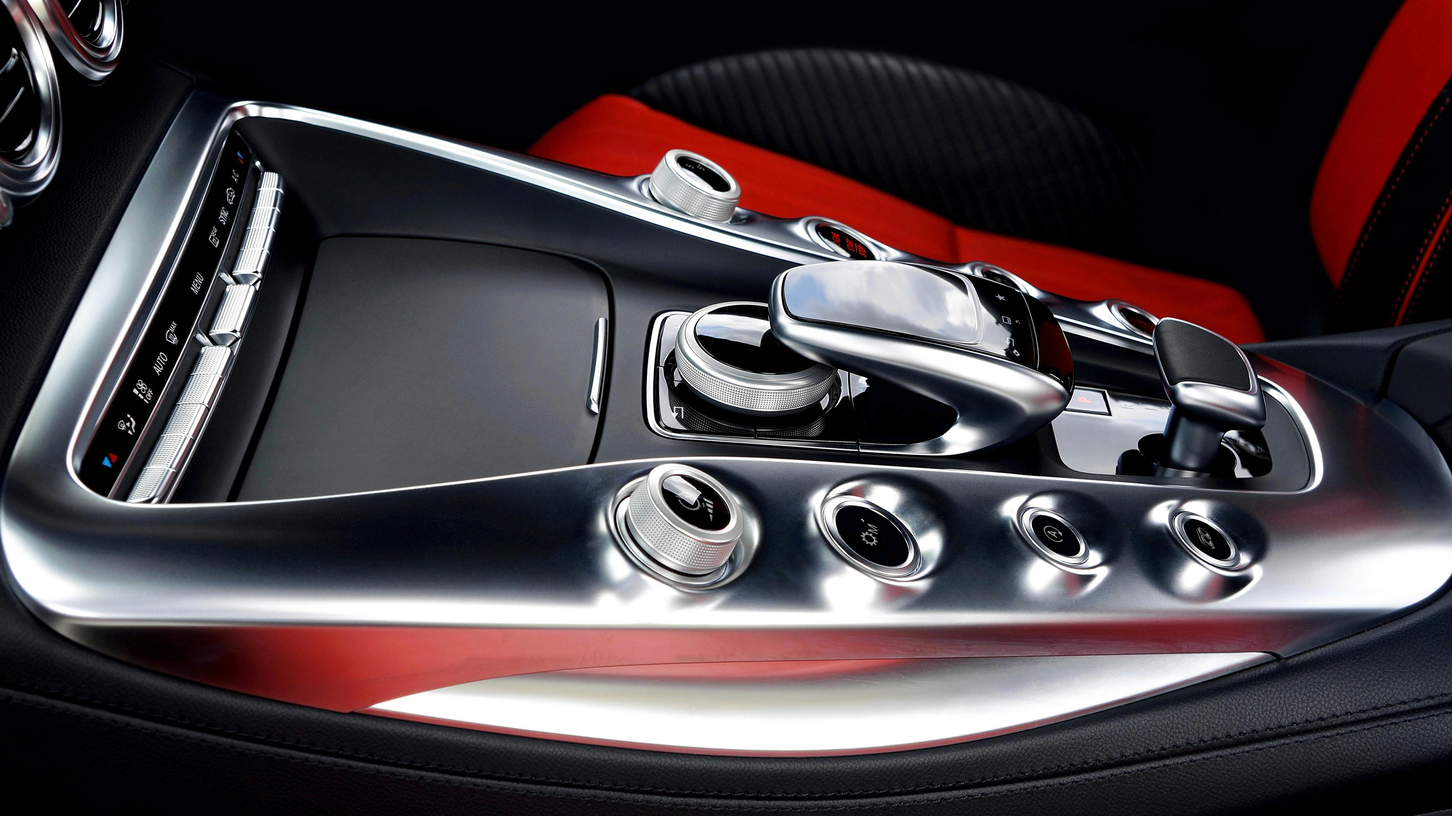
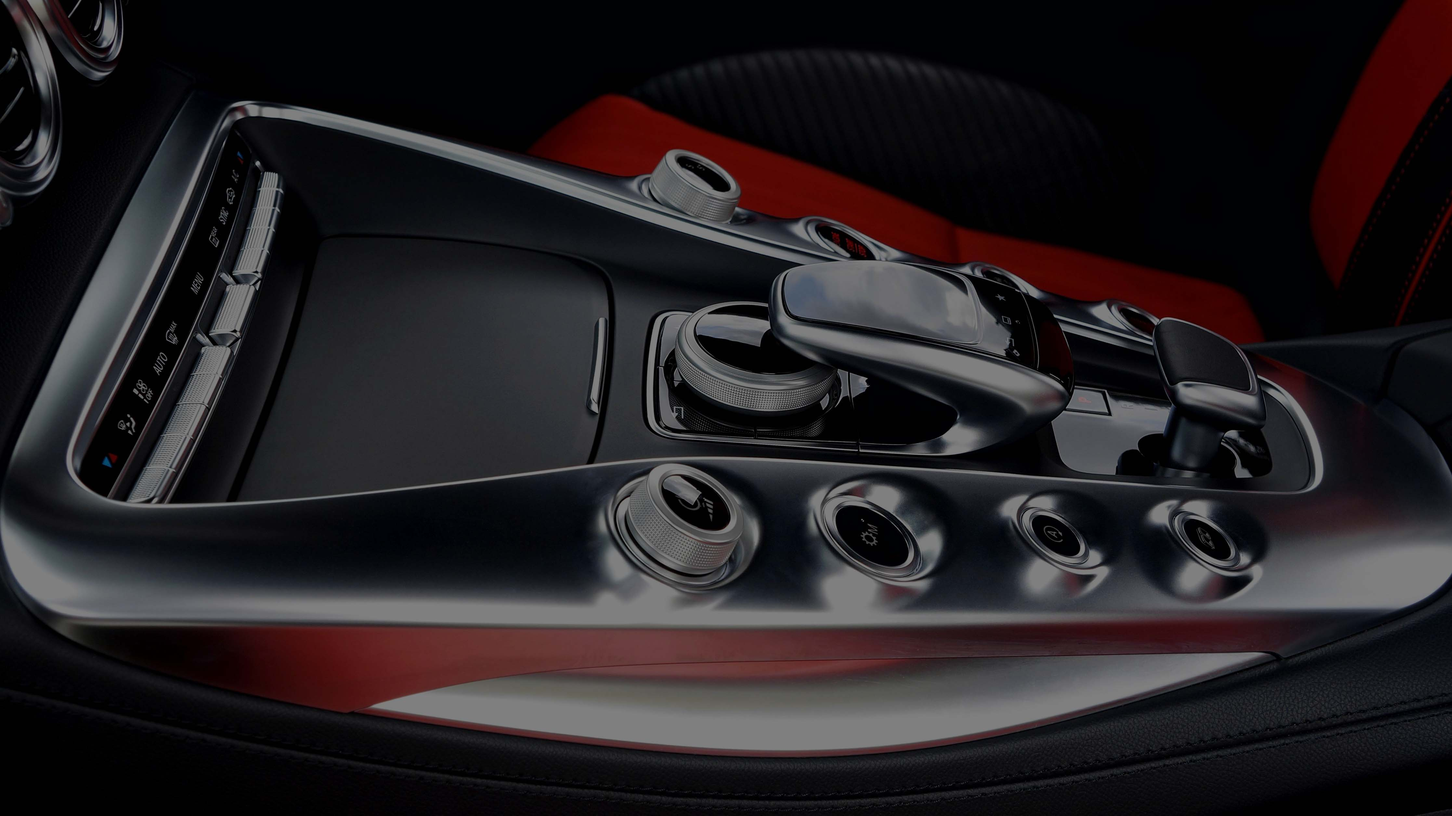
minimal change bg service

diff --git a/style/style-services.css b/style/style-services.css
@@ -1,1 +1,1 @@
-header{background-color:rgb(0,0,0);padding:15px;position:fixed;top:0;width:100%;z-index:100}header .navigation{max-width:1300px;width:100%;min-height:30px;margin:auto;display:-webkit-box;display:-ms-flexbox;display:flex;-webkit-box-pack:justify;-ms-flex-pack:justify;justify-content:space-between;-webkit-box-align:center;-ms-flex-align:center;align-items:center;-webkit-box-orient:horizontal;-webkit-box-direction:normal;-ms-flex-direction:row;flex-direction:row;-ms-flex-wrap:nowrap;flex-wrap:nowrap}header .navigation .logo{font-size:25px;color:#FFFFFF;font-family:"Inter Tight",sans-serif;font-weight:300;letter-spacing:3px}header .navigation .logo span{color:#FFD700;font-style:italic}header .navigation .icon{display:none;font-size:30px;color:#FFD700;margin-top:20px;cursor:pointer}header .navigation .list-container{display:-webkit-box;display:-ms-flexbox;display:flex;-webkit-box-align:center;-ms-flex-align:center;align-items:center}header .navigation .list-container li a{color:#FFFFFF;padding:18px 50px;font-family:"Inter Tight",sans-serif;font-weight:300;letter-spacing:2px;-webkit-transition:all 0.2s ease,color 0.3s ease;transition:all 0.2s ease,color 0.3s ease}header .navigation .list-container li a:hover{color:#FFD700;border-bottom:3px solid #FFD700}header .navigation .list-container li a.active{background-color:rgb(26,21,21);color:#FFD700;border-bottom:3px solid #FFD700}header .navigation .dropdown{position:relative}header .navigation .dropdown .dropbtn{cursor:pointer;padding:18px 50px;color:#FFFFFF;font-family:"Inter Tight",sans-serif}header .navigation .dropdown .dropbtn:hover{color:#FFD700}header .navigation .dropdown .dropdown-content,header .navigation .dropdown .dropdown-content-service{display:none;position:absolute;background-color:black;width:180px;top:38px;left:0px;-webkit-box-shadow:0px 8px 16px rgba(0,0,0,0.2);box-shadow:0px 8px 16px rgba(0,0,0,0.2);z-index:-1;border-bottom-left-radius:4px;border-bottom-right-radius:4px;-webkit-box-orient:vertical;-webkit-box-direction:normal;-ms-flex-direction:column;flex-direction:column}header .navigation .dropdown .dropdown-content li .dropbtn,header .navigation .dropdown .dropdown-content-service li .dropbtn{padding:10px;font-size:14px;color:#FFFFFF;-webkit-transition:color 0.2s ease;transition:color 0.2s ease}header .navigation .dropdown .dropdown-content a,header .navigation .dropdown .dropdown-content-service a{color:#FFFFFF;text-decoration:none;display:block;padding:10px}header .navigation .dropdown .dropdown-content a:hover,header .navigation .dropdown .dropdown-content-service a:hover{background-color:rgba(241,196,15,0.1);color:#FFD700}header .navigation .dropdown:hover .dropdown-content{display:-webkit-box;display:-ms-flexbox;display:flex;height:150px}header .navigation .dropdown:hover .dropdown-content-service{display:-webkit-box;display:-ms-flexbox;display:flex;height:300px}@media screen and (max-width:1100px){header .navigation{max-width:600px}header .navigation .icon{display:block}header .navigation .list-container{max-width:40%;width:100%;min-height:50vh;display:none;-webkit-box-orient:vertical;-webkit-box-direction:normal;-ms-flex-direction:column;flex-direction:column;-ms-flex-pack:distribute;justify-content:space-around;-webkit-box-align:center;-ms-flex-align:center;align-items:center;position:absolute;top:70px;left:0;background-color:black;z-index:100}header .navigation .list-container li a{text-align:left;width:100%;padding:15px 20px;border-bottom:none}header .navigation .list-container li a:hover{color:#FFFFFF;border-bottom:none}header .navigation .list-container li a.active{background-color:black;color:#FFFFFF;border-bottom:none}header .navigation .dropdown .dropbtn{padding:15px 25px}header .navigation .dropdown .dropdown-content,header .navigation .dropdown .dropdown-content-service{width:180px;top:-10px;left:120px}header .navigation .dropdown:hover .dropdown-content,header .navigation .dropdown:hover .dropdown-content-service{display:-webkit-box;display:-ms-flexbox;display:flex}header .navigation .list-container.show{display:-webkit-box;display:-ms-flexbox;display:flex}}.form-wrapper{background-color:#FFFFFF;max-width:100vw;min-height:600px;width:100%}.form-wrapper .form-heading{max-width:1300px;width:100%;min-height:100px;margin:auto}.form-wrapper .form-heading .heading{font-family:"Inter Tight",sans-serif;font-weight:400;font-size:70px;letter-spacing:10px;color:rgb(26,21,21)}.form-wrapper .form-container{max-width:1300px;min-height:600px;width:100%;margin:auto;display:-webkit-box;display:-ms-flexbox;display:flex;-webkit-box-pack:justify;-ms-flex-pack:justify;justify-content:space-between;-webkit-box-align:center;-ms-flex-align:center;align-items:center;-webkit-box-orient:horizontal;-webkit-box-direction:normal;-ms-flex-direction:row;flex-direction:row;-ms-flex-wrap:wrap;flex-wrap:wrap}.form-wrapper .form-container .form{max-width:700px;min-height:300px;width:100%;display:-webkit-box;display:-ms-flexbox;display:flex;-ms-flex-pack:distribute;justify-content:space-around;-webkit-box-align:center;-ms-flex-align:center;align-items:center;-webkit-box-orient:vertical;-webkit-box-direction:normal;-ms-flex-direction:column;flex-direction:column;-ms-flex-wrap:nowrap;flex-wrap:nowrap}.form-wrapper .form-container .form label{display:block;margin-bottom:0.5rem;font-family:"Inter Tight",sans-serif;font-weight:500}.form-wrapper .form-container .form input[type=email],.form-wrapper .form-container .form input[type=text],.form-wrapper .form-container .form textarea{width:100%;padding:0.5rem;margin-bottom:1rem;border:1px solid rgb(26,21,21);border-radius:5px;font-family:"Inter Tight",sans-serif}.form-wrapper .form-container .form input[type=email]:hover,.form-wrapper .form-container .form input[type=text]:hover,.form-wrapper .form-container .form textarea:hover{background-color:#FFEDD8}.form-wrapper .form-container .form input[type=email]:focus,.form-wrapper .form-container .form input[type=text]:focus,.form-wrapper .form-container .form textarea:focus{border-color:#333333}.form-wrapper .form-container .form textarea{resize:none}.form-wrapper .form-container .form button{background:#FFD700;color:rgb(26,21,21);border:none;border-radius:15px;padding:10px 90px;font-size:16px;letter-spacing:1px;cursor:pointer;-webkit-transition:background 0.4s ease,-webkit-transform 0.3s ease;transition:background 0.4s ease,-webkit-transform 0.3s ease;transition:background 0.4s ease,transform 0.3s ease;transition:background 0.4s ease,transform 0.3s ease,-webkit-transform 0.3s ease;margin:15px 0;-webkit-box-shadow:0 4px 8px rgba(0,0,0,0.1);box-shadow:0 4px 8px rgba(0,0,0,0.1);font-family:"Inter Tight",sans-serif}.form-wrapper .form-container .form button:hover{background-color:hsl(35,100%,50%);color:rgb(26,21,21)}.form-wrapper .form-container .form button:active{-webkit-transform:scale(0.95);transform:scale(0.95);-webkit-box-shadow:0 2px 4px rgba(0,0,0,0.2);box-shadow:0 2px 4px rgba(0,0,0,0.2)}.form-wrapper .form-container .map{-webkit-box-flex:3;-ms-flex:3;flex:3;padding:1rem}.form-wrapper .form-container .map iframe{max-width:500px;width:100%;min-height:500px;border-radius:5px}.footer-wrapper{max-width:100vw;min-height:300px;width:100%;background-color:rgb(26,21,21)}.footer-wrapper .footer-content-container{max-width:1300px;min-height:100px;width:100%;display:-webkit-box;display:-ms-flexbox;display:flex;-webkit-box-pack:justify;-ms-flex-pack:justify;justify-content:space-between;-webkit-box-align:center;-ms-flex-align:center;align-items:center;-webkit-box-orient:vertical;-webkit-box-direction:normal;-ms-flex-direction:column;flex-direction:column;-ms-flex-wrap:nowrap;flex-wrap:nowrap;margin:auto}.footer-wrapper .footer-content-container .content{max-width:1000px;width:100%;min-height:100px;border-bottom:0.5px solid #FFD700;display:-webkit-box;display:-ms-flexbox;display:flex;-ms-flex-pack:distribute;justify-content:space-around;-webkit-box-align:center;-ms-flex-align:center;align-items:center;-webkit-box-orient:horizontal;-webkit-box-direction:normal;-ms-flex-direction:row;flex-direction:row;-ms-flex-wrap:nowrap;flex-wrap:nowrap}.footer-wrapper .footer-content-container .content img{max-width:1300px;width:100%;min-height:60px;padding:20px}.footer-wrapper .footer-content-container .links{max-width:1200px;min-height:300px;width:100%;display:-webkit-box;display:-ms-flexbox;display:flex;-ms-flex-pack:distribute;justify-content:space-around;-webkit-box-align:center;-ms-flex-align:center;align-items:center;-webkit-box-orient:horizontal;-webkit-box-direction:normal;-ms-flex-direction:row;flex-direction:row;-ms-flex-wrap:wrap;flex-wrap:wrap}.footer-wrapper .footer-content-container .links .content-container{max-width:200px;min-height:100px;width:100%}.footer-wrapper .footer-content-container .links .content-container .link-list{text-align:center}.footer-wrapper .footer-content-container .links .content-container .link-list .link{font-family:"Inter Tight",sans-serif;padding:10px;letter-spacing:1px;line-height:36px;color:#FFFFFF;-webkit-transition:0.3s ease-in-out;transition:0.3s ease-in-out}.footer-wrapper .footer-content-container .links .content-container .link-list .link:hover{color:#FFD700}.footer-wrapper .icons{max-width:300px;min-height:100px;width:100%;border-top:1px solid #FFD700;display:-webkit-box;display:-ms-flexbox;display:flex;-webkit-box-pack:justify;-ms-flex-pack:justify;justify-content:space-between;-webkit-box-align:center;-ms-flex-align:center;align-items:center;-webkit-box-orient:horizontal;-webkit-box-direction:normal;-ms-flex-direction:row;flex-direction:row;-ms-flex-wrap:nowrap;flex-wrap:nowrap}.footer-wrapper .icons i{font-size:30px;color:#FFFFFF;-webkit-transition:0.3s ease-in-out;transition:0.3s ease-in-out;cursor:pointer}.footer-wrapper .icons i:hover{-webkit-transform:scale(1.05);transform:scale(1.05);color:#FFD700}*{padding:0;margin:0;text-decoration:none;list-style:none;-webkit-box-sizing:border-box;box-sizing:border-box}body{padding-top:30px}html{scroll-behavior:smooth}.wrapper-service{max-width:100vw;width:100%;min-height:50vh;background-image:-webkit-gradient(linear,left top,left bottom,from(rgba(0,0,0,0.3)),to(rgba(0,0,0,0.8))),url(../../../image-services/service/hero.jpg);background-image:linear-gradient(to bottom,rgba(0,0,0,0.3),rgba(0,0,0,0.8)),url(../../../image-services/service/hero.jpg);background-repeat:no-repeat;background-position:center center;background-size:cover;display:-webkit-box;display:-ms-flexbox;display:flex}.wrapper-service .service-container{max-width:1300px;width:100%;min-height:50vh;margin:auto;display:-webkit-box;display:-ms-flexbox;display:flex;-webkit-box-align:center;-ms-flex-align:center;align-items:center}.wrapper-service .service-container .service-container-heading{max-width:500px;min-height:30px;width:100%;margin-left:100px}.wrapper-service .service-container .service-container-heading .title{max-width:400px;width:100%;min-height:30px;font-family:"Inter Tight",sans-serif;font-weight:200;font-size:90px;letter-spacing:10px;color:#FFD700;line-height:100px}.wrapper-service-list{max-width:100vw;width:100%;min-height:500px;display:-webkit-box;display:-ms-flexbox;display:flex;background-color:rgb(26,21,21)}.wrapper-service-list .service-container{max-width:1200px;width:100%;min-height:300px;margin:auto;display:-webkit-box;display:-ms-flexbox;display:flex;-webkit-box-pack:justify;-ms-flex-pack:justify;justify-content:space-between;-webkit-box-align:center;-ms-flex-align:center;align-items:center;-webkit-box-orient:horizontal;-webkit-box-direction:normal;-ms-flex-direction:row;flex-direction:row;-ms-flex-wrap:wrap;flex-wrap:wrap}.wrapper-service-list .service-container .list-container{max-width:220px;width:100%;min-height:300px;display:-webkit-box;display:-ms-flexbox;display:flex;-webkit-box-pack:justify;-ms-flex-pack:justify;justify-content:space-between;-webkit-box-align:center;-ms-flex-align:center;align-items:center;-webkit-box-orient:vertical;-webkit-box-direction:normal;-ms-flex-direction:column;flex-direction:column;-ms-flex-wrap:nowrap;flex-wrap:nowrap}.wrapper-service-list .service-container .list-container a{padding:10px 20px;color:#FFFFFF;background-color:inherit;border:1px solid #FFD700;font-family:"Inter Tight",sans-serif;font-size:16px;letter-spacing:1px;border-radius:15px;-webkit-box-shadow:1px 1px 5px #FFD700;box-shadow:1px 1px 5px #FFD700;margin-top:10px;-webkit-transition:background-color 0.3s ease-in-out,color 0.3s ease-in-out;transition:background-color 0.3s ease-in-out,color 0.3s ease-in-out}.wrapper-service-list .service-container .list-container a:hover{background-color:hsl(35,100%,50%);color:rgb(26,21,21)}.wrapper-service-list .service-container .list-container a:active{-webkit-transform:scale(0.95);transform:scale(0.95);-webkit-box-shadow:0 2px 4px rgba(0,0,0,0.2);box-shadow:0 2px 4px rgba(0,0,0,0.2)}.wrapper-service-list .service-container .info-container{max-width:600px;width:100%;min-height:250px;display:-webkit-box;display:-ms-flexbox;display:flex;-webkit-box-pack:justify;-ms-flex-pack:justify;justify-content:space-between;-webkit-box-align:center;-ms-flex-align:center;align-items:center;-webkit-box-orient:vertical;-webkit-box-direction:normal;-ms-flex-direction:column;flex-direction:column;-ms-flex-wrap:nowrap;flex-wrap:nowrap}.wrapper-service-list .service-container .info-container .title-container{max-width:500px;width:100%;min-height:auto;text-align:center;margin:0 auto}.wrapper-service-list .service-container .info-container .title-container .heading-info{font-family:"Inter Tight",sans-serif;font-weight:500;font-size:25px;line-height:30px;letter-spacing:2px;color:rgb(26,21,21);line-height:26px;color:#FFFFFF;font-size:50px}.wrapper-service-list .service-container .info-container .text-info-container{font-family:"Inter Tight",sans-serif;font-weight:200;font-size:18px;line-height:30px;letter-spacing:2px;color:rgb(26,21,21);line-height:26px;text-align:justify;color:#FFFFFF}
+header{background-color:rgb(0,0,0);padding:15px;position:fixed;top:0;width:100%;z-index:100}header .navigation{max-width:1300px;width:100%;min-height:30px;margin:auto;display:-webkit-box;display:-ms-flexbox;display:flex;-webkit-box-pack:justify;-ms-flex-pack:justify;justify-content:space-between;-webkit-box-align:center;-ms-flex-align:center;align-items:center;-webkit-box-orient:horizontal;-webkit-box-direction:normal;-ms-flex-direction:row;flex-direction:row;-ms-flex-wrap:nowrap;flex-wrap:nowrap}header .navigation .logo{font-size:25px;color:#FFFFFF;font-family:"Inter Tight",sans-serif;font-weight:300;letter-spacing:3px}header .navigation .logo span{color:#FFD700;font-style:italic}header .navigation .icon{display:none;font-size:30px;color:#FFD700;margin-top:20px;cursor:pointer}header .navigation .list-container{display:-webkit-box;display:-ms-flexbox;display:flex;-webkit-box-align:center;-ms-flex-align:center;align-items:center}header .navigation .list-container li a{color:#FFFFFF;padding:18px 50px;font-family:"Inter Tight",sans-serif;font-weight:300;letter-spacing:2px;-webkit-transition:all 0.2s ease,color 0.3s ease;transition:all 0.2s ease,color 0.3s ease}header .navigation .list-container li a:hover{color:#FFD700;border-bottom:3px solid #FFD700}header .navigation .list-container li a.active{background-color:rgb(26,21,21);color:#FFD700;border-bottom:3px solid #FFD700}header .navigation .dropdown{position:relative}header .navigation .dropdown .dropbtn{cursor:pointer;padding:18px 50px;color:#FFFFFF;font-family:"Inter Tight",sans-serif}header .navigation .dropdown .dropbtn:hover{color:#FFD700}header .navigation .dropdown .dropdown-content,header .navigation .dropdown .dropdown-content-service{display:none;position:absolute;background-color:black;width:180px;top:38px;left:0px;-webkit-box-shadow:0px 8px 16px rgba(0,0,0,0.2);box-shadow:0px 8px 16px rgba(0,0,0,0.2);z-index:-1;border-bottom-left-radius:4px;border-bottom-right-radius:4px;-webkit-box-orient:vertical;-webkit-box-direction:normal;-ms-flex-direction:column;flex-direction:column}header .navigation .dropdown .dropdown-content li .dropbtn,header .navigation .dropdown .dropdown-content-service li .dropbtn{padding:10px;font-size:14px;color:#FFFFFF;-webkit-transition:color 0.2s ease;transition:color 0.2s ease}header .navigation .dropdown .dropdown-content a,header .navigation .dropdown .dropdown-content-service a{color:#FFFFFF;text-decoration:none;display:block;padding:10px}header .navigation .dropdown .dropdown-content a:hover,header .navigation .dropdown .dropdown-content-service a:hover{background-color:rgba(241,196,15,0.1);color:#FFD700}header .navigation .dropdown:hover .dropdown-content{display:-webkit-box;display:-ms-flexbox;display:flex;height:150px}header .navigation .dropdown:hover .dropdown-content-service{display:-webkit-box;display:-ms-flexbox;display:flex;height:300px}@media screen and (max-width:1100px){header .navigation{max-width:600px}header .navigation .icon{display:block}header .navigation .list-container{max-width:40%;width:100%;min-height:50vh;display:none;-webkit-box-orient:vertical;-webkit-box-direction:normal;-ms-flex-direction:column;flex-direction:column;-ms-flex-pack:distribute;justify-content:space-around;-webkit-box-align:center;-ms-flex-align:center;align-items:center;position:absolute;top:70px;left:0;background-color:black;z-index:100}header .navigation .list-container li a{text-align:left;width:100%;padding:15px 20px;border-bottom:none}header .navigation .list-container li a:hover{color:#FFFFFF;border-bottom:none}header .navigation .list-container li a.active{background-color:black;color:#FFFFFF;border-bottom:none}header .navigation .dropdown .dropbtn{padding:15px 25px}header .navigation .dropdown .dropdown-content,header .navigation .dropdown .dropdown-content-service{width:180px;top:-10px;left:120px}header .navigation .dropdown:hover .dropdown-content,header .navigation .dropdown:hover .dropdown-content-service{display:-webkit-box;display:-ms-flexbox;display:flex}header .navigation .list-container.show{display:-webkit-box;display:-ms-flexbox;display:flex}}.form-wrapper{background-color:#FFFFFF;max-width:100vw;min-height:600px;width:100%}.form-wrapper .form-heading{max-width:1300px;width:100%;min-height:100px;margin:auto}.form-wrapper .form-heading .heading{font-family:"Inter Tight",sans-serif;font-weight:400;font-size:70px;letter-spacing:10px;color:rgb(26,21,21)}.form-wrapper .form-container{max-width:1300px;min-height:600px;width:100%;margin:auto;display:-webkit-box;display:-ms-flexbox;display:flex;-webkit-box-pack:justify;-ms-flex-pack:justify;justify-content:space-between;-webkit-box-align:center;-ms-flex-align:center;align-items:center;-webkit-box-orient:horizontal;-webkit-box-direction:normal;-ms-flex-direction:row;flex-direction:row;-ms-flex-wrap:wrap;flex-wrap:wrap}.form-wrapper .form-container .form{max-width:700px;min-height:300px;width:100%;display:-webkit-box;display:-ms-flexbox;display:flex;-ms-flex-pack:distribute;justify-content:space-around;-webkit-box-align:center;-ms-flex-align:center;align-items:center;-webkit-box-orient:vertical;-webkit-box-direction:normal;-ms-flex-direction:column;flex-direction:column;-ms-flex-wrap:nowrap;flex-wrap:nowrap}.form-wrapper .form-container .form label{display:block;margin-bottom:0.5rem;font-family:"Inter Tight",sans-serif;font-weight:500}.form-wrapper .form-container .form input[type=email],.form-wrapper .form-container .form input[type=text],.form-wrapper .form-container .form textarea{width:100%;padding:0.5rem;margin-bottom:1rem;border:1px solid rgb(26,21,21);border-radius:5px;font-family:"Inter Tight",sans-serif}.form-wrapper .form-container .form input[type=email]:hover,.form-wrapper .form-container .form input[type=text]:hover,.form-wrapper .form-container .form textarea:hover{background-color:#FFEDD8}.form-wrapper .form-container .form input[type=email]:focus,.form-wrapper .form-container .form input[type=text]:focus,.form-wrapper .form-container .form textarea:focus{border-color:#333333}.form-wrapper .form-container .form textarea{resize:none}.form-wrapper .form-container .form button{background:#FFD700;color:rgb(26,21,21);border:none;border-radius:15px;padding:10px 90px;font-size:16px;letter-spacing:1px;cursor:pointer;-webkit-transition:background 0.4s ease,-webkit-transform 0.3s ease;transition:background 0.4s ease,-webkit-transform 0.3s ease;transition:background 0.4s ease,transform 0.3s ease;transition:background 0.4s ease,transform 0.3s ease,-webkit-transform 0.3s ease;margin:15px 0;-webkit-box-shadow:0 4px 8px rgba(0,0,0,0.1);box-shadow:0 4px 8px rgba(0,0,0,0.1);font-family:"Inter Tight",sans-serif}.form-wrapper .form-container .form button:hover{background-color:hsl(35,100%,50%);color:rgb(26,21,21)}.form-wrapper .form-container .form button:active{-webkit-transform:scale(0.95);transform:scale(0.95);-webkit-box-shadow:0 2px 4px rgba(0,0,0,0.2);box-shadow:0 2px 4px rgba(0,0,0,0.2)}.form-wrapper .form-container .map{-webkit-box-flex:3;-ms-flex:3;flex:3;padding:1rem}.form-wrapper .form-container .map iframe{max-width:500px;width:100%;min-height:500px;border-radius:5px}.footer-wrapper{max-width:100vw;min-height:300px;width:100%;background-color:rgb(26,21,21)}.footer-wrapper .footer-content-container{max-width:1300px;min-height:100px;width:100%;display:-webkit-box;display:-ms-flexbox;display:flex;-webkit-box-pack:justify;-ms-flex-pack:justify;justify-content:space-between;-webkit-box-align:center;-ms-flex-align:center;align-items:center;-webkit-box-orient:vertical;-webkit-box-direction:normal;-ms-flex-direction:column;flex-direction:column;-ms-flex-wrap:nowrap;flex-wrap:nowrap;margin:auto}.footer-wrapper .footer-content-container .content{max-width:1000px;width:100%;min-height:100px;border-bottom:0.5px solid #FFD700;display:-webkit-box;display:-ms-flexbox;display:flex;-ms-flex-pack:distribute;justify-content:space-around;-webkit-box-align:center;-ms-flex-align:center;align-items:center;-webkit-box-orient:horizontal;-webkit-box-direction:normal;-ms-flex-direction:row;flex-direction:row;-ms-flex-wrap:nowrap;flex-wrap:nowrap}.footer-wrapper .footer-content-container .content img{max-width:1300px;width:100%;min-height:60px;padding:20px}.footer-wrapper .footer-content-container .links{max-width:1200px;min-height:300px;width:100%;display:-webkit-box;display:-ms-flexbox;display:flex;-ms-flex-pack:distribute;justify-content:space-around;-webkit-box-align:center;-ms-flex-align:center;align-items:center;-webkit-box-orient:horizontal;-webkit-box-direction:normal;-ms-flex-direction:row;flex-direction:row;-ms-flex-wrap:wrap;flex-wrap:wrap}.footer-wrapper .footer-content-container .links .content-container{max-width:200px;min-height:100px;width:100%}.footer-wrapper .footer-content-container .links .content-container .link-list{text-align:center}.footer-wrapper .footer-content-container .links .content-container .link-list .link{font-family:"Inter Tight",sans-serif;padding:10px;letter-spacing:1px;line-height:36px;color:#FFFFFF;-webkit-transition:0.3s ease-in-out;transition:0.3s ease-in-out}.footer-wrapper .footer-content-container .links .content-container .link-list .link:hover{color:#FFD700}.footer-wrapper .icons{max-width:300px;min-height:100px;width:100%;border-top:1px solid #FFD700;display:-webkit-box;display:-ms-flexbox;display:flex;-webkit-box-pack:justify;-ms-flex-pack:justify;justify-content:space-between;-webkit-box-align:center;-ms-flex-align:center;align-items:center;-webkit-box-orient:horizontal;-webkit-box-direction:normal;-ms-flex-direction:row;flex-direction:row;-ms-flex-wrap:nowrap;flex-wrap:nowrap}.footer-wrapper .icons i{font-size:30px;color:#FFFFFF;-webkit-transition:0.3s ease-in-out;transition:0.3s ease-in-out;cursor:pointer}.footer-wrapper .icons i:hover{-webkit-transform:scale(1.05);transform:scale(1.05);color:#FFD700}*{padding:0;margin:0;text-decoration:none;list-style:none;-webkit-box-sizing:border-box;box-sizing:border-box}body{padding-top:30px}html{scroll-behavior:smooth}.wrapper-service{max-width:100vw;width:100%;min-height:50vh;background-image:url(../../../image-services/service/hero.jpg);background-repeat:no-repeat;background-position:center center;background-size:cover;display:-webkit-box;display:-ms-flexbox;display:flex}.wrapper-service .service-container{max-width:1300px;width:100%;min-height:50vh;margin:auto;display:-webkit-box;display:-ms-flexbox;display:flex;-webkit-box-align:center;-ms-flex-align:center;align-items:center}.wrapper-service .service-container .service-container-heading{max-width:500px;min-height:30px;width:100%;margin-left:100px}.wrapper-service .service-container .service-container-heading .title{max-width:400px;width:100%;min-height:30px;font-family:"Inter Tight",sans-serif;font-weight:200;font-size:90px;letter-spacing:10px;color:#FFD700;line-height:100px}.wrapper-service-list{max-width:100vw;width:100%;min-height:500px;display:-webkit-box;display:-ms-flexbox;display:flex;background-color:rgb(26,21,21)}.wrapper-service-list .service-container{max-width:1200px;width:100%;min-height:300px;margin:auto;display:-webkit-box;display:-ms-flexbox;display:flex;-webkit-box-pack:justify;-ms-flex-pack:justify;justify-content:space-between;-webkit-box-align:center;-ms-flex-align:center;align-items:center;-webkit-box-orient:horizontal;-webkit-box-direction:normal;-ms-flex-direction:row;flex-direction:row;-ms-flex-wrap:wrap;flex-wrap:wrap}.wrapper-service-list .service-container .list-container{max-width:220px;width:100%;min-height:300px;display:-webkit-box;display:-ms-flexbox;display:flex;-webkit-box-pack:justify;-ms-flex-pack:justify;justify-content:space-between;-webkit-box-align:center;-ms-flex-align:center;align-items:center;-webkit-box-orient:vertical;-webkit-box-direction:normal;-ms-flex-direction:column;flex-direction:column;-ms-flex-wrap:nowrap;flex-wrap:nowrap}.wrapper-service-list .service-container .list-container a{padding:10px 20px;color:#FFFFFF;background-color:inherit;border:1px solid #FFD700;font-family:"Inter Tight",sans-serif;font-size:16px;letter-spacing:1px;border-radius:15px;-webkit-box-shadow:1px 1px 5px #FFD700;box-shadow:1px 1px 5px #FFD700;margin-top:10px;-webkit-transition:background-color 0.3s ease-in-out,color 0.3s ease-in-out;transition:background-color 0.3s ease-in-out,color 0.3s ease-in-out}.wrapper-service-list .service-container .list-container a:hover{background-color:hsl(35,100%,50%);color:rgb(26,21,21)}.wrapper-service-list .service-container .list-container a:active{-webkit-transform:scale(0.95);transform:scale(0.95);-webkit-box-shadow:0 2px 4px rgba(0,0,0,0.2);box-shadow:0 2px 4px rgba(0,0,0,0.2)}.wrapper-service-list .service-container .info-container{max-width:600px;width:100%;min-height:250px;display:-webkit-box;display:-ms-flexbox;display:flex;-webkit-box-pack:justify;-ms-flex-pack:justify;justify-content:space-between;-webkit-box-align:center;-ms-flex-align:center;align-items:center;-webkit-box-orient:vertical;-webkit-box-direction:normal;-ms-flex-direction:column;flex-direction:column;-ms-flex-wrap:nowrap;flex-wrap:nowrap}.wrapper-service-list .service-container .info-container .title-container{max-width:500px;width:100%;min-height:auto;text-align:center;margin:0 auto}.wrapper-service-list .service-container .info-container .title-container .heading-info{font-family:"Inter Tight",sans-serif;font-weight:500;font-size:25px;line-height:30px;letter-spacing:2px;color:rgb(26,21,21);line-height:26px;color:#FFFFFF;font-size:50px}.wrapper-service-list .service-container .info-container .text-info-container{font-family:"Inter Tight",sans-serif;font-weight:200;font-size:18px;line-height:30px;letter-spacing:2px;color:rgb(26,21,21);line-height:26px;text-align:justify;color:#FFFFFF}

diff --git a/style/partial/services/_services.scss b/style/partial/services/_services.scss
@@ -25,7 +25,7 @@ html{
     max-width: 100vw;
     width: 100%;
     min-height: 50vh;
-    background-image: linear-gradient(to bottom, rgba(0, 0, 0, 0.3), rgba(0, 0, 0, 0.8)), url(../../../image-services/service/hero.jpg);
+    background-image: url(../../../image-services/service/hero.jpg);
     background-repeat: no-repeat;
     background-position: center center;
     background-size: cover;
